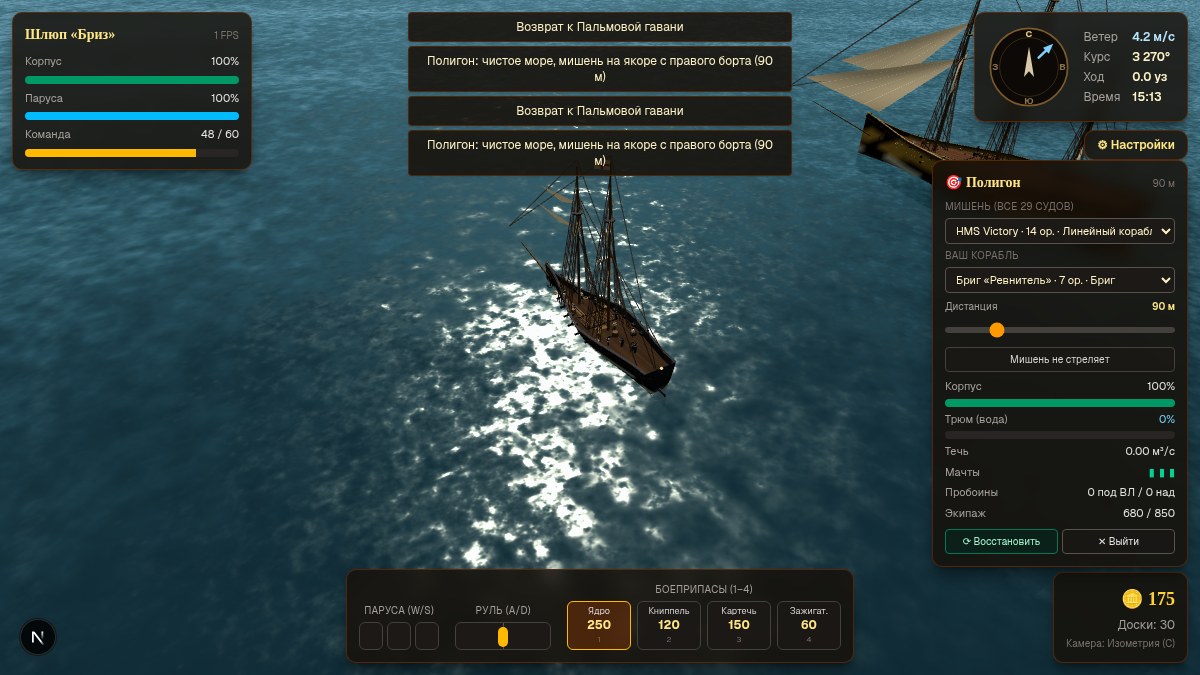
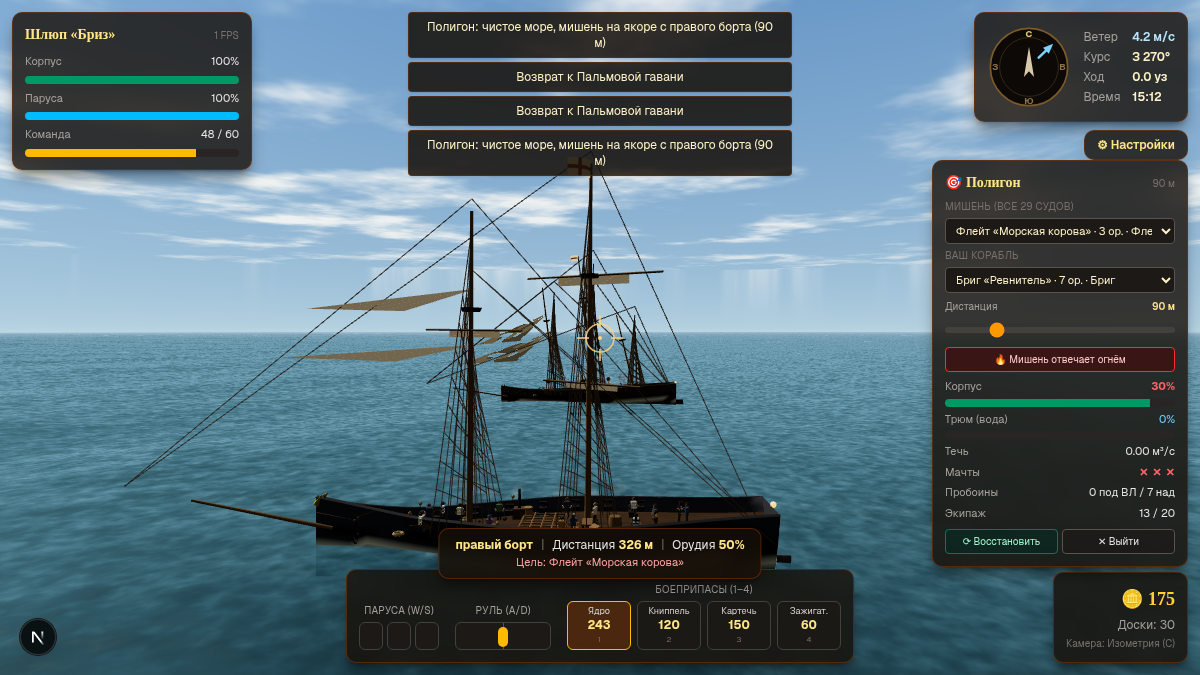
Task 15: e2e_v32 — детерминированные финалы F (sunk fast-forward) и G (ответный огонь fast-forward), transom raycast-проба (8 пресетов ALL OK)

diff --git a/scripts/t15_transom_probe.ts b/scripts/t15_transom_probe.ts
@@ -1,0 +1,85 @@
+// Детерминированная проверка транца (кормы): лучи ИЗ-ЗА кормы вперёд —
+// каждый луч внутрь контура кормового шпангоута должен ВСТРЕТИТЬ
+// геометрию. Если луч проходит насквозь — дыра в транце.
+// (buildShip рисует canvas-текстуру палубы — в Node подменяем document)
+const handler = (): ProxyHandler<unknown> => ({
+  get: (_t, prop) => {
+    if (prop === 'addColorStop') return () => undefined;
+    if (prop === 'width' || prop === 'height') return 512;
+    return (..._a: unknown[]) => new Proxy({}, handler());
+  },
+  set: () => true,
+});
+(globalThis as unknown as { document: unknown }).document = {
+  createElement: () => new Proxy({}, handler()),
+};
+
+import * as THREE from 'three';
+import { PRESETS, buildShip, hullProfile } from '../src/game/ship/buildShip';
+
+let fails = 0;
+const check = (name: string, cond: boolean, extra = '') => {
+  console.log(`${cond ? 'OK  ' : 'FAIL'} ${name}${extra ? ' | ' + extra : ''}`);
+  if (!cond) fails++;
+};
+
+/** полуширина корпуса на кормовом шпангоуте на высоте y (как в buildHull) */
+const sternHalfWidth = (P: { draft: number }, id: string, y: number) => {
+  const p = hullProfile(0, PRESETS[id]);
+  const u = Math.min(1, Math.max(0, (y + p.draft) / (p.draft + p.bulwark)));
+  const flare = Math.pow(u, 0.6);
+  void P;
+  return p.w * (0.16 + 0.84 * flare);
+};
+
+const biggestHull = (vis: { group: THREE.Group }) => {
+  let hull: THREE.Mesh | null = null;
+  let maxTri = 0;
+  vis.group.traverse((o) => {
+    const m = o as THREE.Mesh;
+    if (m.geometry && m.geometry.index && m.geometry.attributes.color) {
+      const tris = m.geometry.index.count / 3;
+      if (tris > maxTri) { maxTri = tris; hull = m as THREE.Mesh; }
+    }
+  });
+  return hull;
+};
+
+const ray = new THREE.Raycaster();
+/** лучи сквозь плоскость транца/носа; dirZ=+1 — из-за кормы вперёд */
+const probeEnd = (id: string, dirZ: number) => {
+  const P = PRESETS[id];
+  const hull = biggestHull(buildShip(P));
+  if (!hull) return { through: -1, total: 0, ys: [] as number[] };
+  const L = P.length, F = P.freeboard;
+  let through = 0, total = 0;
+  const ys: number[] = [];
+  for (let yi = 0; yi <= 16; yi++) {
+    const y = -P.draft * 0.55 + (F * 1.0 + P.draft * 0.55) * (yi / 16);
+    const hw = sternHalfWidth(P, id, y);
+    if (hw < 0.2) continue;
+    for (let xi = 0; xi <= 8; xi++) {
+      const x = -hw * 0.82 + (hw * 1.64) * (xi / 8);
+      const z = dirZ > 0 ? -L * 0.75 : L * 0.75;
+      ray.set(new THREE.Vector3(x, y, z), new THREE.Vector3(0, 0, dirZ));
+      ray.far = L * 1.6;
+      total++;
+      if (!ray.intersectObject(hull, false).length) { through++; ys.push(+y.toFixed(2)); }
+    }
+  }
+  return { through, total, ys };
+};
+
+for (const id of ['sloop', 'fluyt', 'frigate', 'victory', 'galleon', 'cog', 'caravel', 'santisima']) {
+  const r = probeEnd(id, 1);
+  check(`${id}: транец сплошной (лучи из-за кормы)`, r.through === 0,
+    `сквозных ${r.through}/${r.total}${r.through ? ' y=' + r.ys.slice(0, 10).join(',') : ''}`);
+}
+for (const id of ['sloop', 'victory']) {
+  const r = probeEnd(id, -1);
+  check(`${id}: нос сплошной (лучи со стороны носа)`, r.through === 0,
+    `сквозных ${r.through}/${r.total}`);
+}
+
+console.log(fails === 0 ? '\nALL OK' : `\nFAILED: ${fails}`);
+process.exit(fails === 0 ? 0 : 1);
